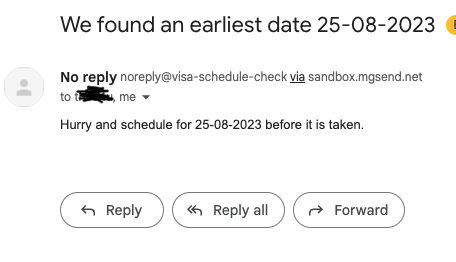
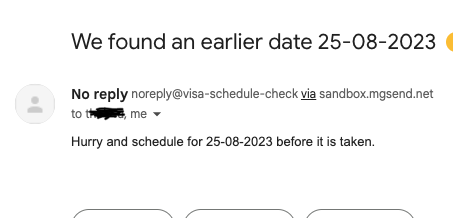
chore: copy typo

diff --git a/index.js b/index.js
@@ -33,7 +33,7 @@ const notifyMe = async (earliestDate) => {
   const formattedDate = format(earliestDate, 'dd-MM-yyyy');
   logStep(`sending an email to schedule for ${formattedDate}`);
   await sendEmail({
-    subject: `We found an earliest date ${formattedDate}`,
+    subject: `We found an earlier date ${formattedDate}`,
     text: `Hurry and schedule for ${formattedDate} before it is taken.`
   })
 }

diff --git a/README.md b/README.md
@@ -1,6 +1,6 @@
 # US-visa-appointment-notifier
 
-This is just a script I put together to check and notify me via email ([MailGun](https://www.mailgun.com/)) when there's an earliest date before my initial appointment date. It doesn't handle **rescheduling**. 
+This is just a script I put together to check and notify me via email ([MailGun](https://www.mailgun.com/)) when there's an earlier date before my initial appointment date. It doesn't handle **rescheduling**. 
 
 
 ```
